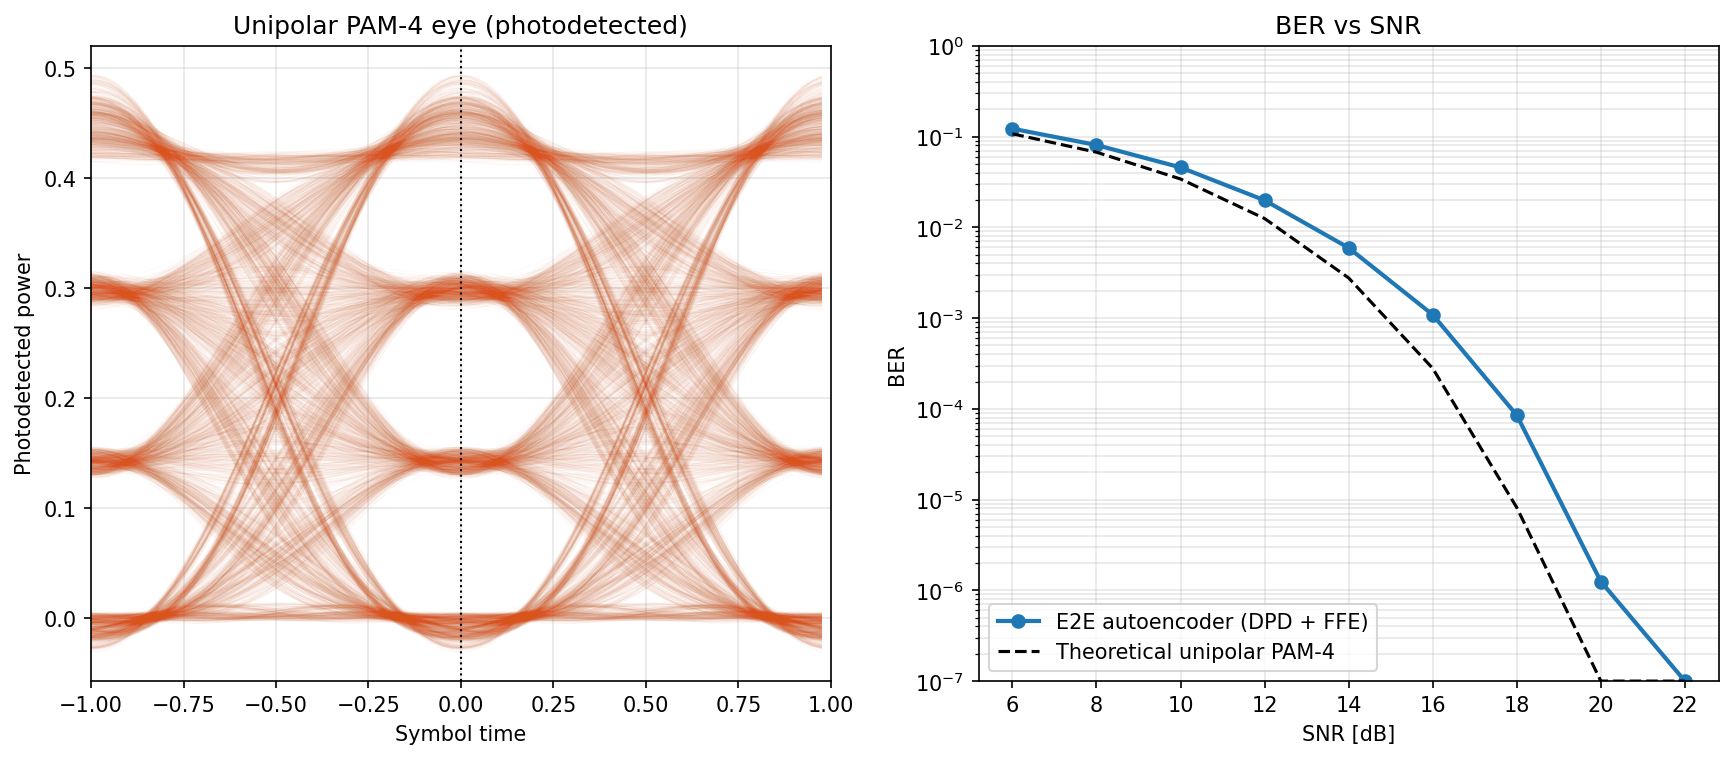
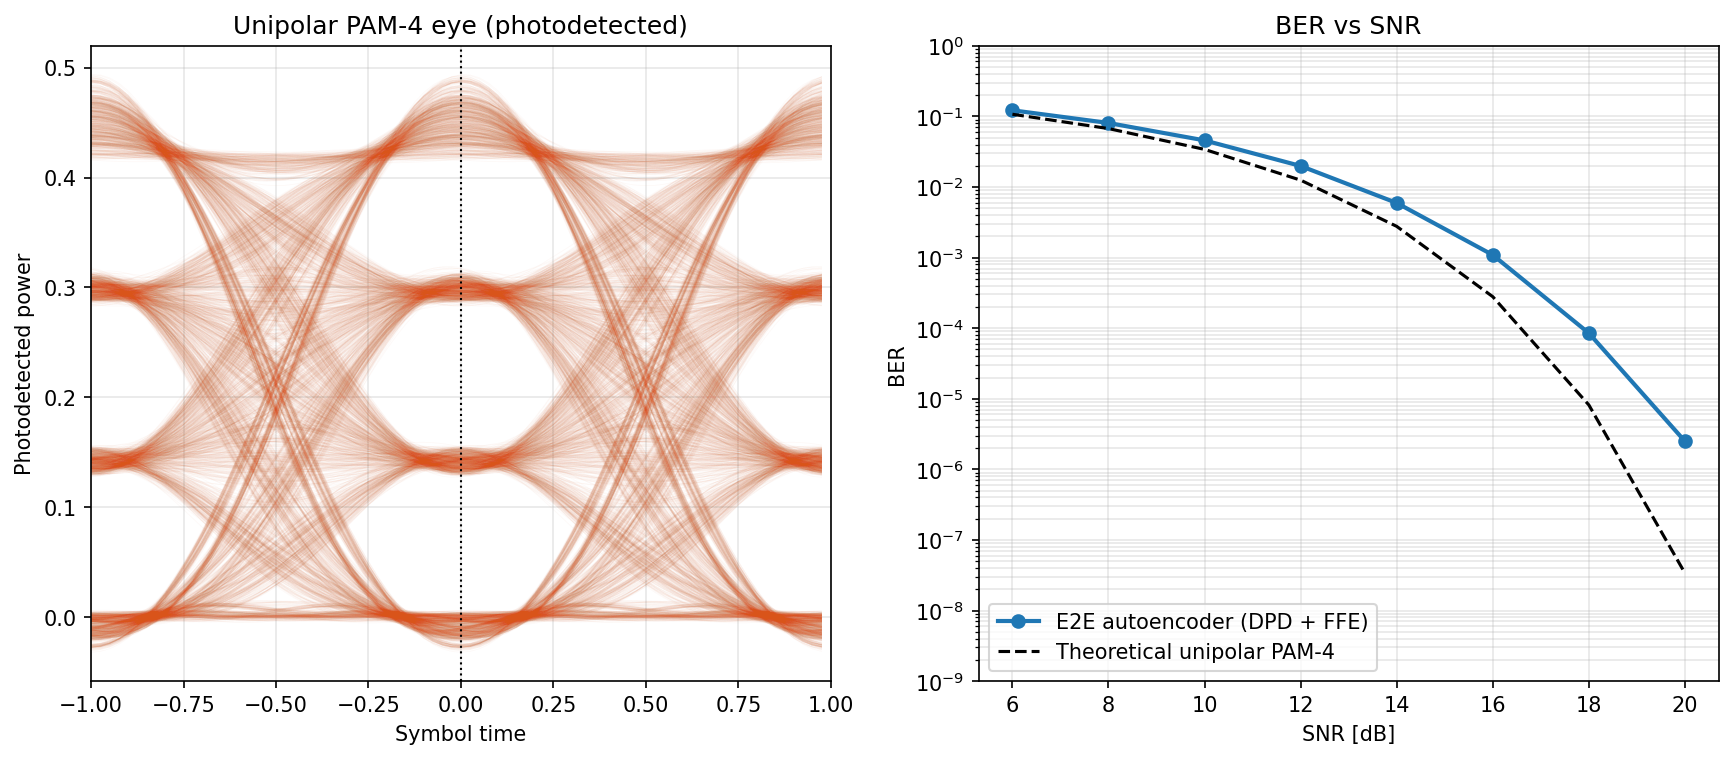
plot: stop at SNR=20 (E2E hits 0 errors at 22), lower y-floor to 1e-9 so theory is not clipped

diff --git a/main.py b/main.py
@@ -65,7 +65,7 @@ def main():
     # sweep directly on integer SNR; add_awgn takes a label such that
     #   snr_per_sample_db = label + 10*log10(k/K_sim)
     # so label = SNR - 10*log10(k/K_sim) (= SNR + 3 dB for K=4, k=2)
-    snr_db = np.arange(6, 24, 2.0)
+    snr_db = np.arange(6, 22, 2.0)
     label_db = snr_db - 10 * np.log10(config.bits_per_symbol / sps)
     print("\n--- E2E ---")
     measured = evaluate(transmitter, channel, receiver, config, label_db, 400000, device)
@@ -77,13 +77,14 @@ def main():
     # ----- figure: eye (left) + waterfall (right) -----
     fig, axes = plt.subplots(1, 2, figsize=(14, 5.5))
     draw_eye(axes[0], photocurrent, sps, phase, "Unipolar PAM-4 eye (photodetected)")
-    floor = lambda a: np.maximum(a, 1e-7)
-    axes[1].semilogy(snr_db, floor(measured), "-o", linewidth=2, label="E2E autoencoder (DPD + FFE)")
-    axes[1].semilogy(snr_db, floor(theory), "k--", linewidth=1.5, label="Theoretical unipolar PAM-4")
+    # floor measured at the smallest resolvable BER (1/num_eval), theory is left unfloored
+    measured_floor = np.maximum(measured, 1.0 / 400000)
+    axes[1].semilogy(snr_db, measured_floor, "-o", linewidth=2, label="E2E autoencoder (DPD + FFE)")
+    axes[1].semilogy(snr_db, theory, "k--", linewidth=1.5, label="Theoretical unipolar PAM-4")
     axes[1].grid(True, which="both", alpha=0.3)
     axes[1].set_xlabel("SNR [dB]")
     axes[1].set_ylabel("BER")
-    axes[1].set_ylim(1e-7, 1)
+    axes[1].set_ylim(1e-9, 1)
     axes[1].set_title("BER vs SNR")
     axes[1].legend(loc="lower left")
 
